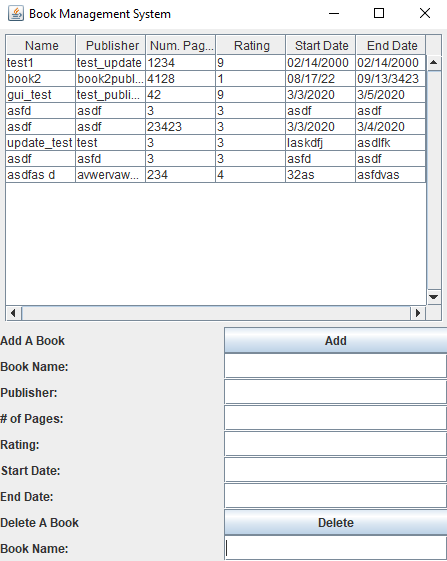
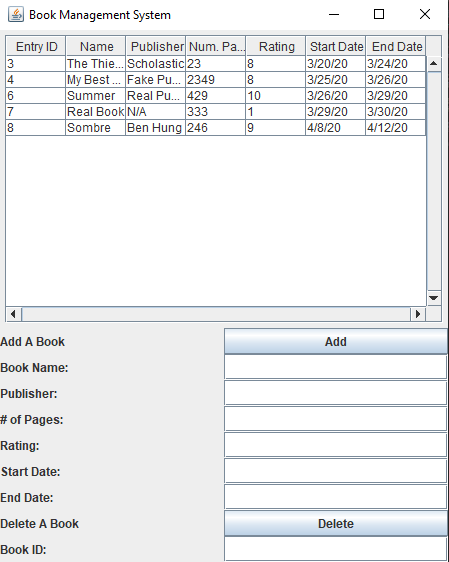
each book now has a unique id

diff --git a/Database.java b/Database.java
@@ -77,6 +77,7 @@ public class Database {
             //System.out.println("Opened database successfully");
 
             // get values for insertion
+            int book_id = to_add.get_id();
             String name = to_add.get_name();
             String publisher = to_add.get_publisher();
             int num_pages = to_add.get_num_pages();
@@ -86,8 +87,9 @@ public class Database {
 
             // SQL formation and execution
             stmt = c.createStatement();
-            String sql = "INSERT INTO BOOKS (NAME, PUBLISHER, NUM_PAGES, RATING, START_DATE, END_DATE) "
-                + "VALUES ('" + name + "', '"
+            String sql = "INSERT INTO BOOKS (EntryID, Name, Publisher, NumPages, Rating, StartDate, EndDate) "
+                + "VALUES ('" + book_id + "', '" 
+                + name + "', '"
                 + publisher + "', '"
                 + Integer.toString(num_pages) + "', '"
                 + Integer.toString(rating) + "', '"
@@ -107,7 +109,7 @@ public class Database {
             return;
     }
 
-    public void delete_book(String to_delete) {
+    public void delete_book(int to_delete) {
         Connection c = null;
         Statement stmt = null;
         try {
@@ -120,7 +122,7 @@ public class Database {
             //String to_delete_name = to_delete.get_name();
 
             stmt = c.createStatement();
-            String sql = "DELETE from BOOKS where NAME = " + "'" + to_delete + "';";
+            String sql = "DELETE from BOOKS where EntryID = " + "'" + to_delete + "';";
             stmt.executeUpdate(sql);
             c.commit();
 
@@ -203,8 +205,10 @@ public class Database {
                     rs.close();
                     stmt.close();
                     c.close();
+                    input.close();
                     return;
             }
+            input.close();
 
             stmt = c.createStatement();
             // String sql = "UPDATE BOOKS set " + field + " = '" + update_field + "' where NAME = '" + update_name + "';";
@@ -234,16 +238,19 @@ public class Database {
             stmt = c.createStatement();
             ResultSet rs = stmt.executeQuery("SELECT * FROM BOOKS;");
             while (rs.next()) {
-                String name = rs.getString("name");
-                String publisher = rs.getString("publisher");
-                int num_pages = rs.getInt("num_pages");
+                int book_id = rs.getInt("EntryID");
+                String book_id_string = Integer.toString(book_id);
+                String name = rs.getString("Name");
+                String publisher = rs.getString("Publisher");
+                int num_pages = rs.getInt("NumPages");
                 String num_pages_string = Integer.toString(num_pages);
-                int rating = rs.getInt("rating");
+                int rating = rs.getInt("Rating");
                 String rating_string = Integer.toString(rating);
-                String start_date = rs.getString("start_date");
-                String end_date = rs.getString("end_date");
+                String start_date = rs.getString("StartDate");
+                String end_date = rs.getString("EndDate");
 
                 Vector<String> book_data_temp = new Vector<>();
+                book_data_temp.add(book_id_string);
                 book_data_temp.add(name);
                 book_data_temp.add(publisher);
                 book_data_temp.add(num_pages_string);

diff --git a/GUI.java b/GUI.java
@@ -8,8 +8,8 @@ import java.awt.Dimension;
 import java.awt.GridLayout;
 import javax.swing.event.TableModelEvent;
 import javax.swing.event.TableModelListener;
-import javax.swing.table.AbstractTableModel;
-import javax.swing.table.TableModel;
+//import javax.swing.table.AbstractTableModel;
+//import javax.swing.table.TableModel;
 
 public class GUI extends JFrame implements ActionListener, TableModelListener {
     Library our_lib;
@@ -17,6 +17,8 @@ public class GUI extends JFrame implements ActionListener, TableModelListener {
 
     JButton add_button;
     JButton delete_button;
+    JButton create_table;
+    JButton filler;
     
     JTextField name_tf;
     JTextField publisher_tf;
@@ -56,6 +58,8 @@ public class GUI extends JFrame implements ActionListener, TableModelListener {
         // buttons
         this.add_button = new JButton("Add");
         this.delete_button = new JButton("Delete");
+        this.create_table = new JButton("Create Table");
+        this.filler = new JButton("");
         
         // labels
         this.add_label = new JLabel("Add A Book");
@@ -67,7 +71,7 @@ public class GUI extends JFrame implements ActionListener, TableModelListener {
         this.end_label = new JLabel("End Date:");
 
         this.delete_label = new JLabel("Delete A Book");
-        this.name2_label = new JLabel ("Book Name:");
+        this.name2_label = new JLabel ("Book ID:");
 
         // text fields
         this.name_tf = new JTextField(20);
@@ -100,8 +104,9 @@ public class GUI extends JFrame implements ActionListener, TableModelListener {
             //table_setup();
         }
         else if(e.getSource() == delete_button) {
-            String name = name2_tf.getText();
-            our_lib.delete_book(name);
+            String entry_id = name2_tf.getText();
+            int entry_id_int = Integer.parseInt(entry_id);
+            our_lib.delete_book(entry_id_int);
         }
     }
 
@@ -123,6 +128,7 @@ public class GUI extends JFrame implements ActionListener, TableModelListener {
         Vector<Vector<String>> book_data = our_lib.print_books();
         Vector<String> heading = new Vector<>();
         
+        heading.add("Entry ID");
         heading.add("Name");
         heading.add("Publisher");
         heading.add("Num. Pages");
@@ -143,9 +149,12 @@ public class GUI extends JFrame implements ActionListener, TableModelListener {
     public void add_setup() {
         add_button.addActionListener(this);
         delete_button.addActionListener(this);
+        create_table.addActionListener(this);
 
         this.add_pane = new JPanel();
         add_pane.setLayout(new GridLayout(9, 2));
+        //add_pane.add(create_table);
+        //add_pane.add(filler);
         add_pane.add(add_label);
         add_pane.add(add_button);
         add_pane.add(name_label);

diff --git a/Book.java b/Book.java
@@ -1,4 +1,10 @@
+import java.io.File;
+import java.io.FileNotFoundException;
+import java.util.Scanner;
+import java.io.PrintWriter;
+
 public class Book {
+    int book_id;
     String name;
     String publisher;
     int num_pages;
@@ -15,6 +21,35 @@ public class Book {
         this.rating = rating;
         this.start_date = start_date;
         this.end_date = end_date;
+
+        int latest_id = -1;
+        try {
+            File file = new File("latest_id.txt");
+            Scanner file_scanner = new Scanner(file);
+            while (file_scanner.hasNextLine()) {
+                latest_id = Integer.parseInt(file_scanner.nextLine());
+            }
+            file_scanner.close();
+        } catch (FileNotFoundException e) {
+            System.out.println("An error occurred.");
+            e.printStackTrace();
+        }
+        
+        try {
+            PrintWriter prw= new PrintWriter ("latest_id.txt");
+            prw.println(latest_id + 1);          
+            prw.close();
+        } catch (FileNotFoundException e) {
+            System.out.println("An error occurred.");
+            e.printStackTrace();
+        }
+
+        this.book_id = latest_id + 1;
+        //return latest_id + 1;
+    }
+
+    public int get_id() {
+        return book_id;
     }
 
     public String get_name() {

diff --git a/Library.java b/Library.java
@@ -11,8 +11,8 @@ public class Library {
         new_database.insert_book(new_book);
     }
 
-    public void delete_book(String book_name) {
-        new_database.delete_book(book_name);
+    public void delete_book(int book_id) {
+        new_database.delete_book(book_id);
     }
 
     public void update_book() {
@@ -38,6 +38,7 @@ public class Library {
         }
         System.out.println();
         new_database.update_books(book_name);
+        input.close();
     }
 
     public Vector<Vector<String>> print_books() {

diff --git a/README.md b/README.md
@@ -10,7 +10,7 @@ Adding a book:
 Input your desire values in the text fields, and press the "Add" button. Make sure the rating and num_pages fields consist of integers, otherwise it will not update.
 
 Deleting a book:
-Find the book name in the table, input the name in the corresponding text field (under "Delete a Book"), and press the delete button. If there are multiple books with the same name, it will delete all of them (to be fixed).
+Find the book id in the table, input the id in the corresponding text field (under "Delete a Book"), and press the delete button.
 
 In-Progress:
 - automatically updating table using TableListeners in Java Swing
@@ -18,14 +18,17 @@ In-Progress:
 To-do:
 - graphs????
 - statistics in GUI
-- unique book IDs so you can delete by id.
 
 Bugs:
-- deleting a book with the same name as another book wll delete all books
 - need some way of error checking
+- error if book name has a '
 
 Done:
 - add read-date to Book class
 - storing book information in PostgreSQL
 - basic GUI using Java Swing
+- unique book IDs so you can delete by id.
+
+Fixed Bugs;
+- deleting a book with the same name as another book wll delete all books
 
